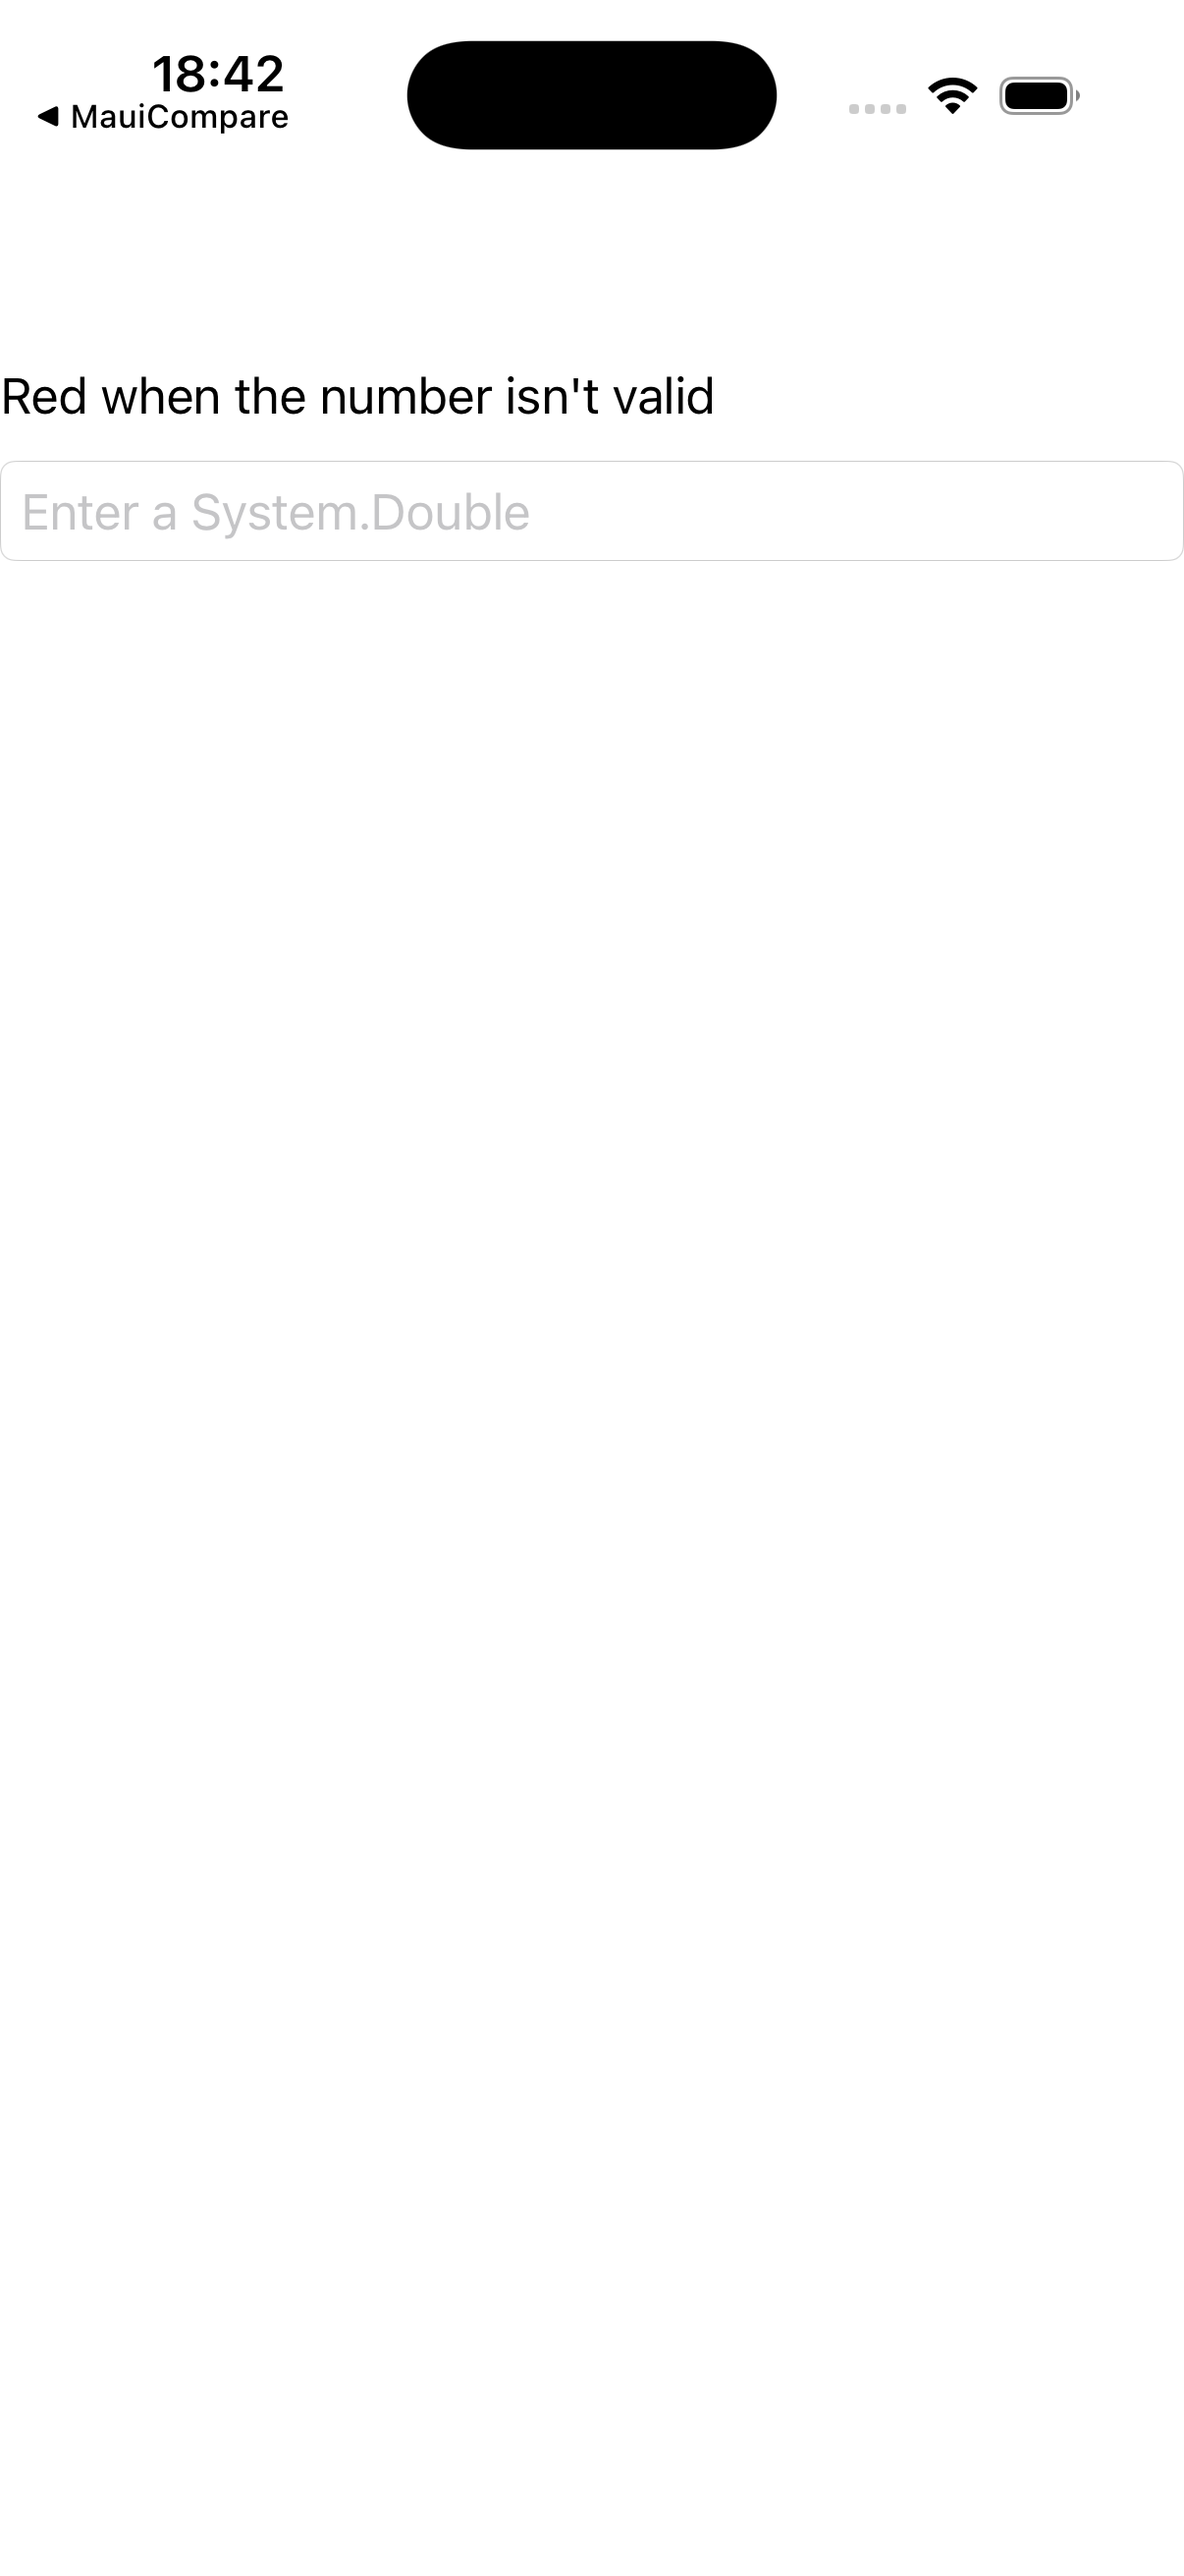
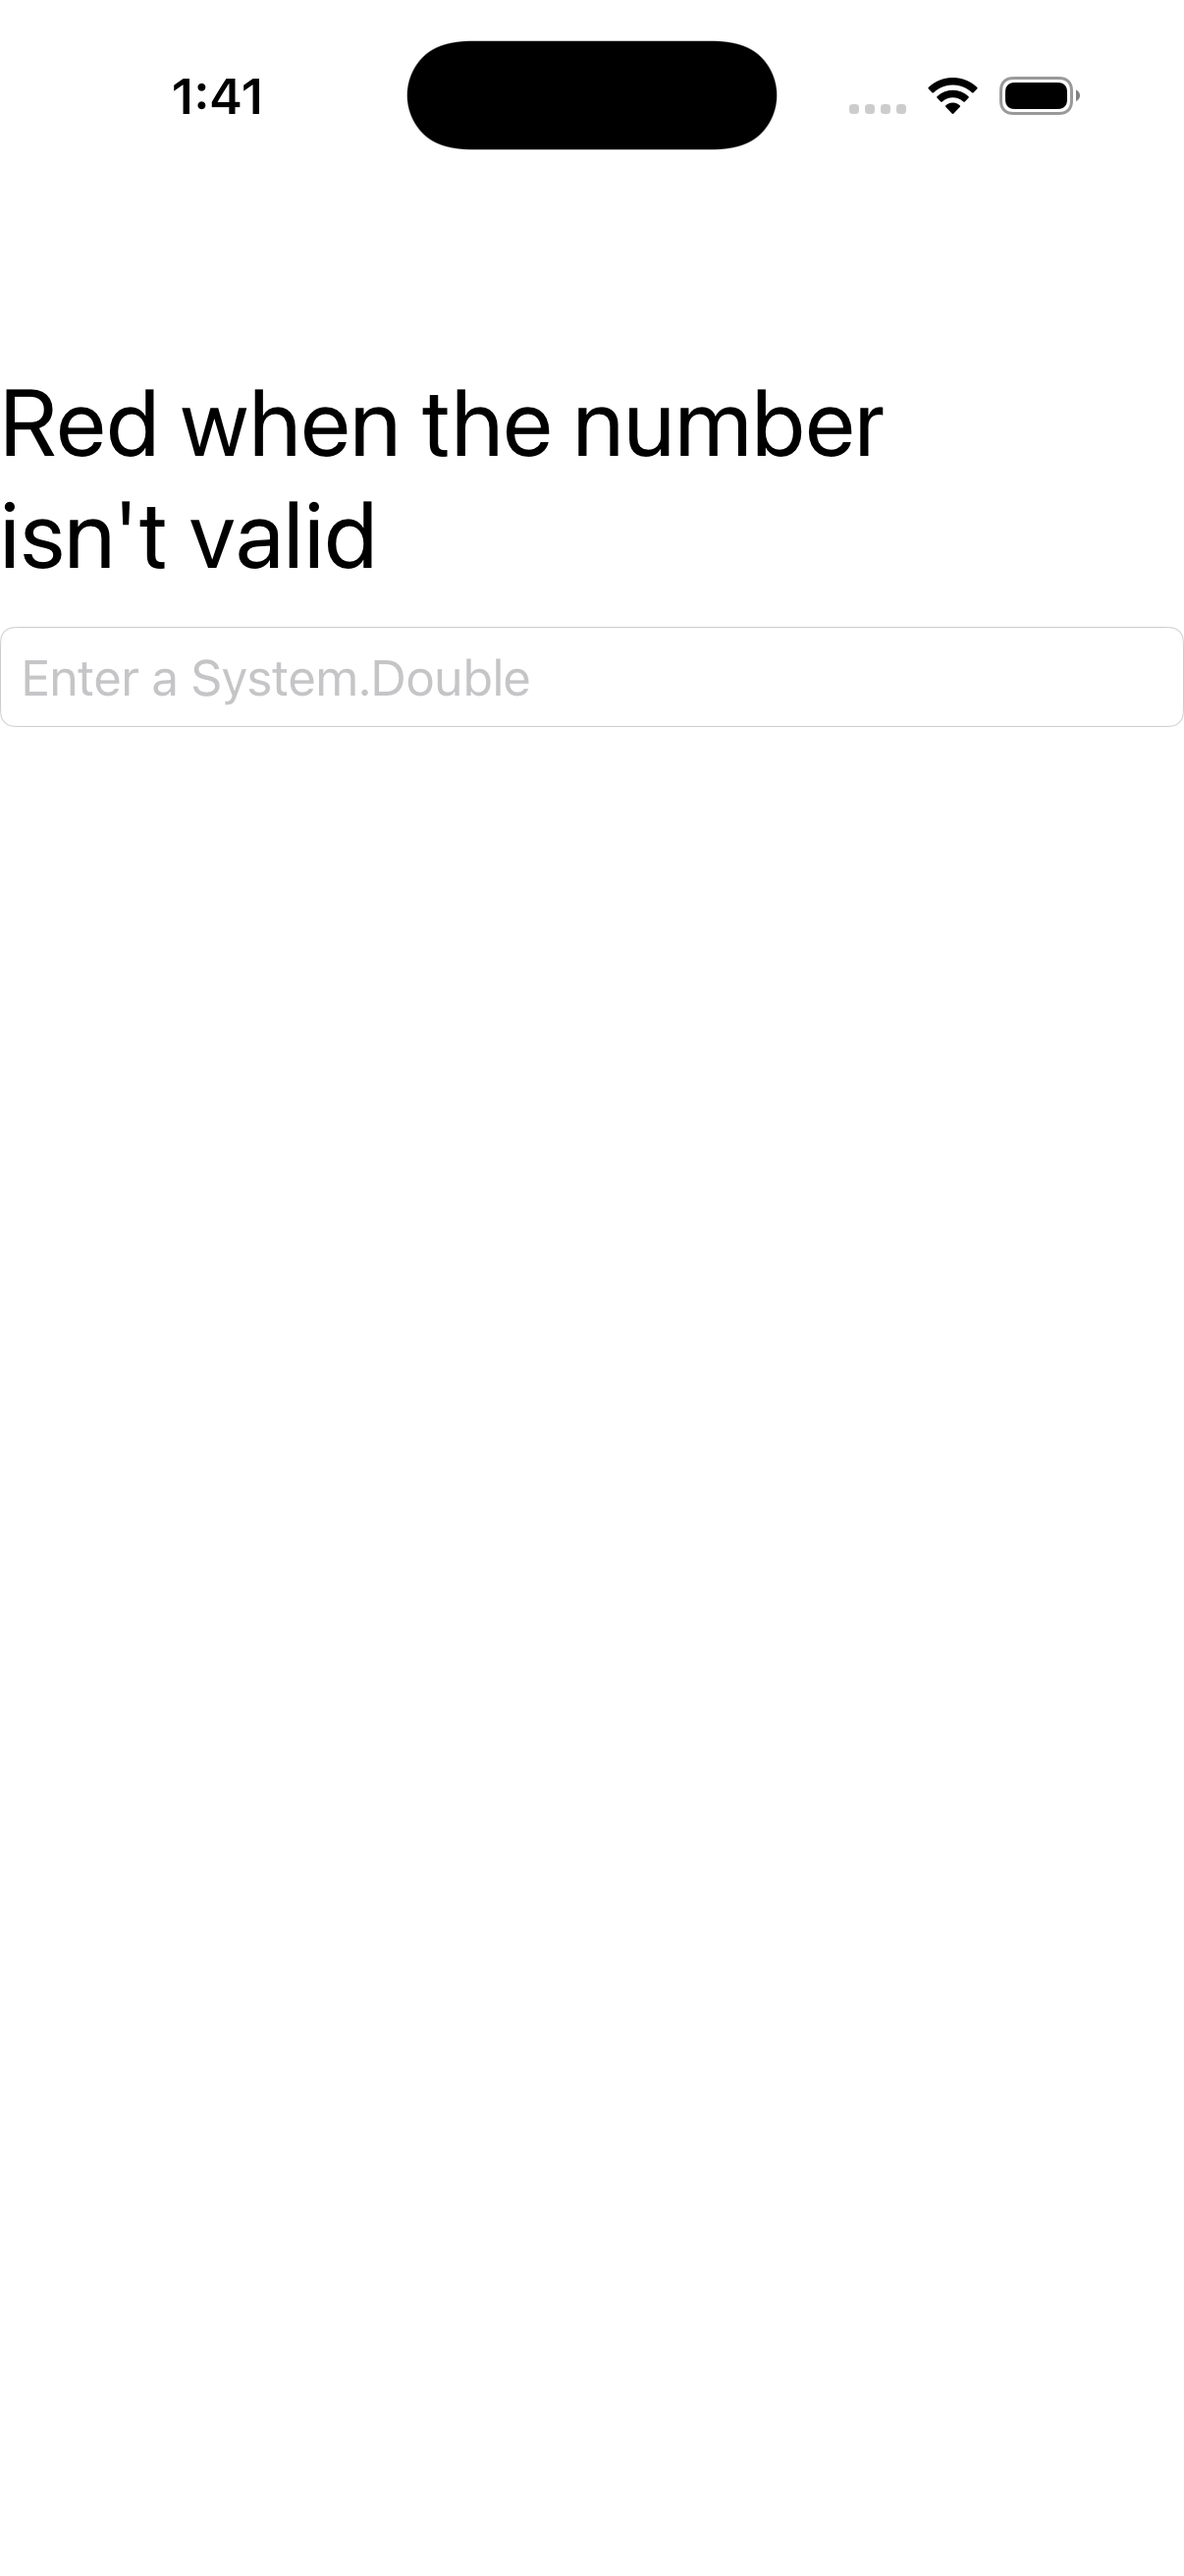
fix(samples,parity): behaviors title renders as a large Headline (FontSize 32)
example 28/172 (behaviors): the title 'Red when the number isnt valid' rendered as a
small single-line label — the gallery page set the text but skipped the Style='Headline'
font sizing (the port has no app-level Headline resource). Sized it inline to FontSize 32
to match MAUI's Headline style. Now it renders as a large two-line heading above the
validation Entry matching MAUI both themes. tidy 0. Tracker: behaviors diff->minor (25 minor).

Changed region(s): [[0.0, 0.1236, 0.7363, 0.278], [0.0614, 0.0, 0.2454, 0.0618], [0.0, 0.2471, 0.092, 0.278]]

diff --git a/port/cpp/src/samples/pages/behaviors_page.hpp b/port/cpp/src/samples/pages/behaviors_page.hpp
@@ -29,6 +29,7 @@
 #include "maui/controls/entry.hpp"
 #include "maui/controls/label.hpp"
 #include "maui/controls/vertical_stack_layout.hpp"
+#include "maui/core/font.hpp"
 #include "maui/graphics/colors.hpp"
 #include "maui/hosting/maui_app.hpp"
 
@@ -94,8 +95,11 @@ namespace maui::samples
             page_.set_title("Behaviors");
             stack_.set_spacing(12);
 
-            // Label Text="Red when the number isn't valid" Style="Headline".
+            // Label Text="Red when the number isn't valid" Style="Headline". The port has no app-level
+            // Headline resource, so size it inline to match MAUI's Headline style (FontSize 32) — the C#
+            // page shows this as a large two-line heading above the Entry.
             headline_.set_text("Red when the number isn't valid");
+            headline_.set_font(maui::core::font::system_font_of_size(32.0));
 
             // Entry Placeholder="Enter a System.Double" with the NumericValidationBehavior attached.
             value_entry_.set_placeholder("Enter a System.Double");

diff --git a/port/cpp/docs/comparison/README.md b/port/cpp/docs/comparison/README.md
@@ -2,7 +2,7 @@
 
 Theme-matched iOS comparison: each page rendered by **real .NET MAUI** vs the **C++ port**, on the same iPhone 17 simulator, compared **light-vs-light** and **dark-vs-dark**. Both stacks render native-default controls + the system font (the C# app's `dotnet new maui` default `Styles.xaml` + OpenSans are stripped; appearance forced via `MAUI_THEME` / `MAUI_APPEARANCE`). Goal: pixel-perfect parity, fixed example-by-example.
 
-**Progress: 0 / 172 🟢 matched** · 24 🟡 minor · 51 🔴 diff · 97 ⬜ pending
+**Progress: 0 / 172 🟢 matched** · 25 🟡 minor · 50 🔴 diff · 97 ⬜ pending
 
 Status legend: 🟢 pixel-match (both themes) · 🟡 minor diff · 🔴 notable diff to fix · ⬜ not yet reviewed. Per-theme verdicts in `parity_status.json`.
 
@@ -39,7 +39,7 @@ Rows are in **fix order** (top → bottom): foundational single controls first (
 | 25 | Formatted Text | 🟡<br>L:minor<br>D:minor | ![](csharp_ios_light/formatted_text.png) | ![](cpp_ios_light/formatted_text.png) | ![](csharp_ios_dark/formatted_text.png) | ![](cpp_ios_dark/formatted_text.png) |
 | 26 | Styles | 🟡<br>L:minor<br>D:minor | ![](csharp_ios_light/styles.png) | ![](cpp_ios_light/styles.png) | ![](csharp_ios_dark/styles.png) | ![](cpp_ios_dark/styles.png) |
 | 27 | Triggers | 🟡<br>L:minor<br>D:minor | ![](csharp_ios_light/triggers.png) | ![](cpp_ios_light/triggers.png) | ![](csharp_ios_dark/triggers.png) | ![](cpp_ios_dark/triggers.png) |
-| 28 | Behaviors | 🔴<br>L:diff<br>D:diff | ![](csharp_ios_light/behaviors.png) | ![](cpp_ios_light/behaviors.png) | ![](csharp_ios_dark/behaviors.png) | ![](cpp_ios_dark/behaviors.png) |
+| 28 | Behaviors | 🟡<br>L:minor<br>D:minor | ![](csharp_ios_light/behaviors.png) | ![](cpp_ios_light/behaviors.png) | ![](csharp_ios_dark/behaviors.png) | ![](cpp_ios_dark/behaviors.png) |
 | 29 | Semantics | ⬜<br>L:pending<br>D:pending | ![](csharp_ios_light/semantics.png) | ![](cpp_ios_light/semantics.png) | ![](csharp_ios_dark/semantics.png) | ![](cpp_ios_dark/semantics.png) |
 | 30 | App Theme Binding | 🔴<br>L:minor<br>D:diff | ![](csharp_ios_light/app_theme_binding.png) | ![](cpp_ios_light/app_theme_binding.png) | ![](csharp_ios_dark/app_theme_binding.png) | ![](cpp_ios_dark/app_theme_binding.png) |
 | 31 | Stack Layout | 🔴<br>L:diff<br>D:diff | ![](csharp_ios_light/stack_layout.png) | ![](cpp_ios_light/stack_layout.png) | ![](csharp_ios_dark/stack_layout.png) | ![](cpp_ios_dark/stack_layout.png) |
